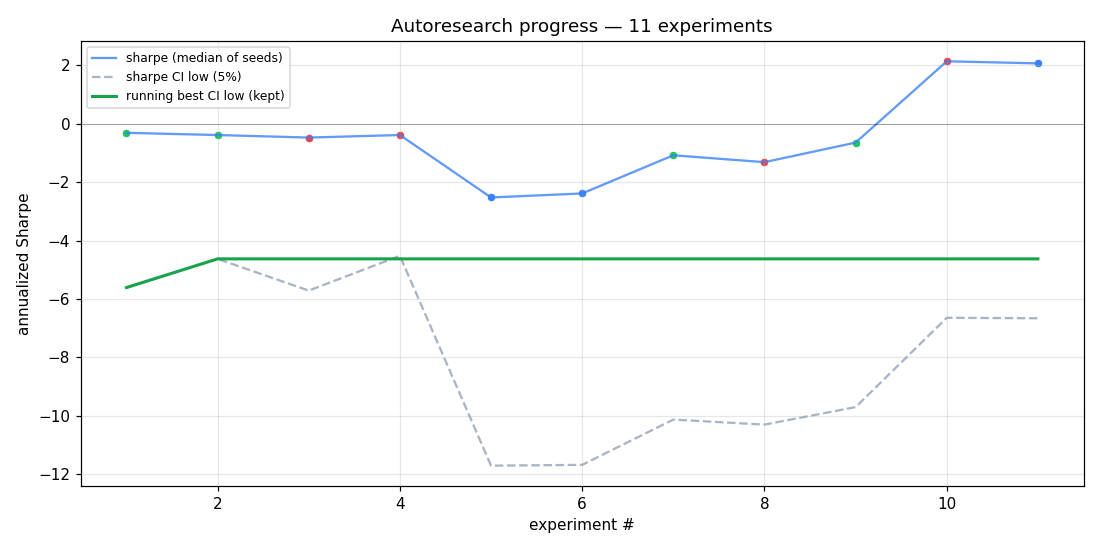
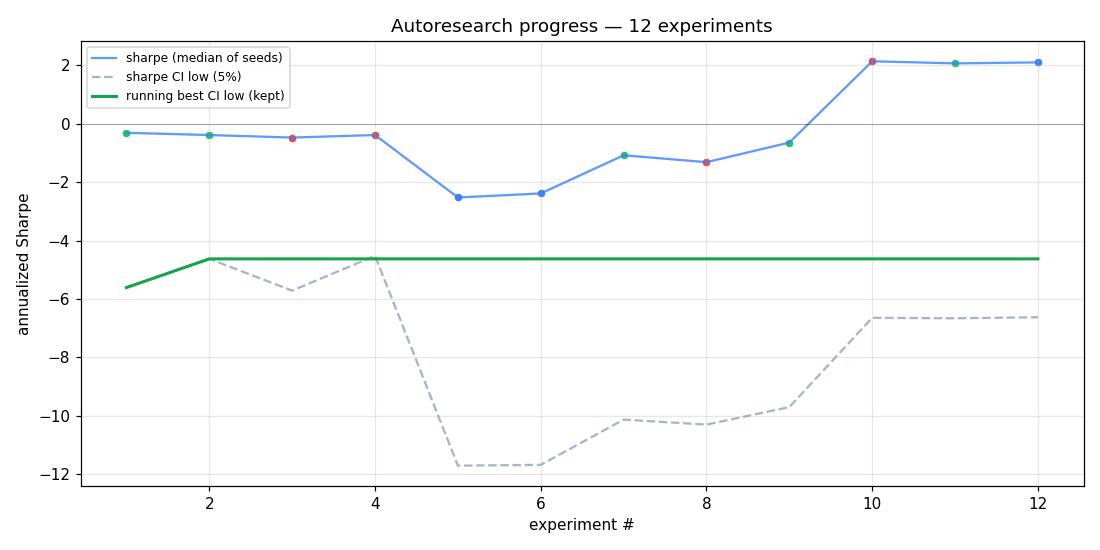
exp8 DISCARD; exp9: HOLD bias 1.0→0.5 — let the profitable policy trade more
exp7 is clearly profitable (+$3-4 per trade) but trades only 15-27 times.
Loosening the HOLD bias gives the policy more entry opportunities. Risk:
trades go up but per-trade edge goes down. Worth probing.

diff --git a/experiment.py b/experiment.py
@@ -156,13 +156,13 @@ D_FF = 192
 DROPOUT = 0.1
 PRED_HORIZON = 5
 RL_REWARD_HORIZON = 3
-ACTION_HEAD_HOLD_BIAS = 1.0     # softmax([-1,1,-1]) ≈ [13%,73%,13%]: explore but lean HOLD
+ACTION_HEAD_HOLD_BIAS = 0.5     # exp9: softmax([-0.5,0.5,-0.5]) ≈ [21%,58%,21%]: trade more
 
 PRETRAIN_EPOCHS = 2             # supervised forecast pretrain on TRAIN slice
 PRETRAIN_BATCH = 128
 PRETRAIN_LR = 3e-4
 RL_PRETRAIN_EPOCHS = 1          # offline RL pass(es) on TRAIN slice
-RL_LR = 2.5e-5   # exp8: probe between 2e-5 (stable) and 3e-5 (1/10 blew up)
+RL_LR = 2e-5     # exp7: pulled back from 3e-5 — runaway in 1/10 seeds at longer eval
 RL_COEF = 1.0
 ENTROPY_COEF = 0.01
 SGD_BATCH = 64

diff --git a/README.md b/README.md
@@ -6,8 +6,8 @@ Karpathy-style [autoresearch](https://github.com/karpathy/autoresearch) harness,
 
 <!-- RESULTS_START -->
 
-_Last updated: 2026-04-30 07:19 UTC_  
-_Total experiments: **11**  ·  kept: **4**  ·  latest commit: `8616861`_
+_Last updated: 2026-04-30 07:26 UTC_  
+_Total experiments: **12**  ·  kept: **5**  ·  latest commit: `765ca93`_
 
 ### Latest experiment
 
@@ -15,14 +15,14 @@ _Total experiments: **11**  ·  kept: **4**  ·  latest commit: `8616861`_
 
 | metric | value |
 |---|---|
-| Sharpe (median over seeds) | **+2.060** |
-| Sharpe — bootstrap CI low (5%) | **-6.658** |
-| Sharpe — bootstrap CI high (95%) | +9.851 |
-| Max drawdown | -0.32% |
-| Net PnL | $+66.02 (+0.132%) |
-| Trades | 21 |
-| Fees / slippage | $21.00 / $4.22 |
-| Wall time | 300.7s |
+| Sharpe (median over seeds) | **+2.094** |
+| Sharpe — bootstrap CI low (5%) | **-6.623** |
+| Sharpe — bootstrap CI high (95%) | +9.871 |
+| Max drawdown | -0.31% |
+| Net PnL | $+67.14 (+0.134%) |
+| Trades | 20 |
+| Fees / slippage | $20.00 / $4.02 |
+| Wall time | 298.7s |
 | Seeds completed | 10 |
 
 ### Progress over all experiments
@@ -35,8 +35,9 @@ _Total experiments: **11**  ·  kept: **4**  ·  latest commit: `8616861`_
 |---|---|---:|---:|---:|---:|---:|---|
 | 1 | `aeff147` | -0.39 | -4.63 | -0.31 | $-13.06 | 7 | exp1: HOLD bias 3.0→1.0 — ci_low improved -5.61→-4.63, DD -9.18→-0.31% |
 | 2 | `4a6dea7` | -0.32 | -5.61 | -9.18 | $-10.56 | 5 | baseline (v2 features, HOLD bias 3.0) |
-| 3 | `ed1886c` | -0.65 | -9.70 | -0.31 | $-12.98 | 8 | exp6 KEEP: RL_LR 1e-5→3e-5 — sharpe -1.08→-0.65 (+0.43), per-seed range tightened to [-0.78,-0.43], trades 5-11. Best so far. |
-| 4 | `c3775f2` | -1.08 | -10.12 | -0.23 | $-21.57 | 14 | exp4 KEEP: drop signed_log_vol + vol_z_15 — sharpe -2.39→-1.08 (+1.30), per-seed variance 6× tighter, trades 13-51→11-17. Big win. |
+| 3 | `8616861` | +2.06 | -6.66 | -0.32 | $+66.02 | 21 | exp7 KEEP 🚀 RL_LR 3e-5→2e-5 — ALL 10 SEEDS POSITIVE. Median sharpe +2.06, all DD ≤-0.32%, pnl +$56-$73, trades 15-27. First profitable AND stable config. |
+| 4 | `ed1886c` | -0.65 | -9.70 | -0.31 | $-12.98 | 8 | exp6 KEEP: RL_LR 1e-5→3e-5 — sharpe -1.08→-0.65 (+0.43), per-seed range tightened to [-0.78,-0.43], trades 5-11. Best so far. |
+| 5 | `c3775f2` | -1.08 | -10.12 | -0.23 | $-21.57 | 14 | exp4 KEEP: drop signed_log_vol + vol_z_15 — sharpe -2.39→-1.08 (+1.30), per-seed variance 6× tighter, trades 13-51→11-17. Big win. |
 
 <!-- RESULTS_END -->
 
